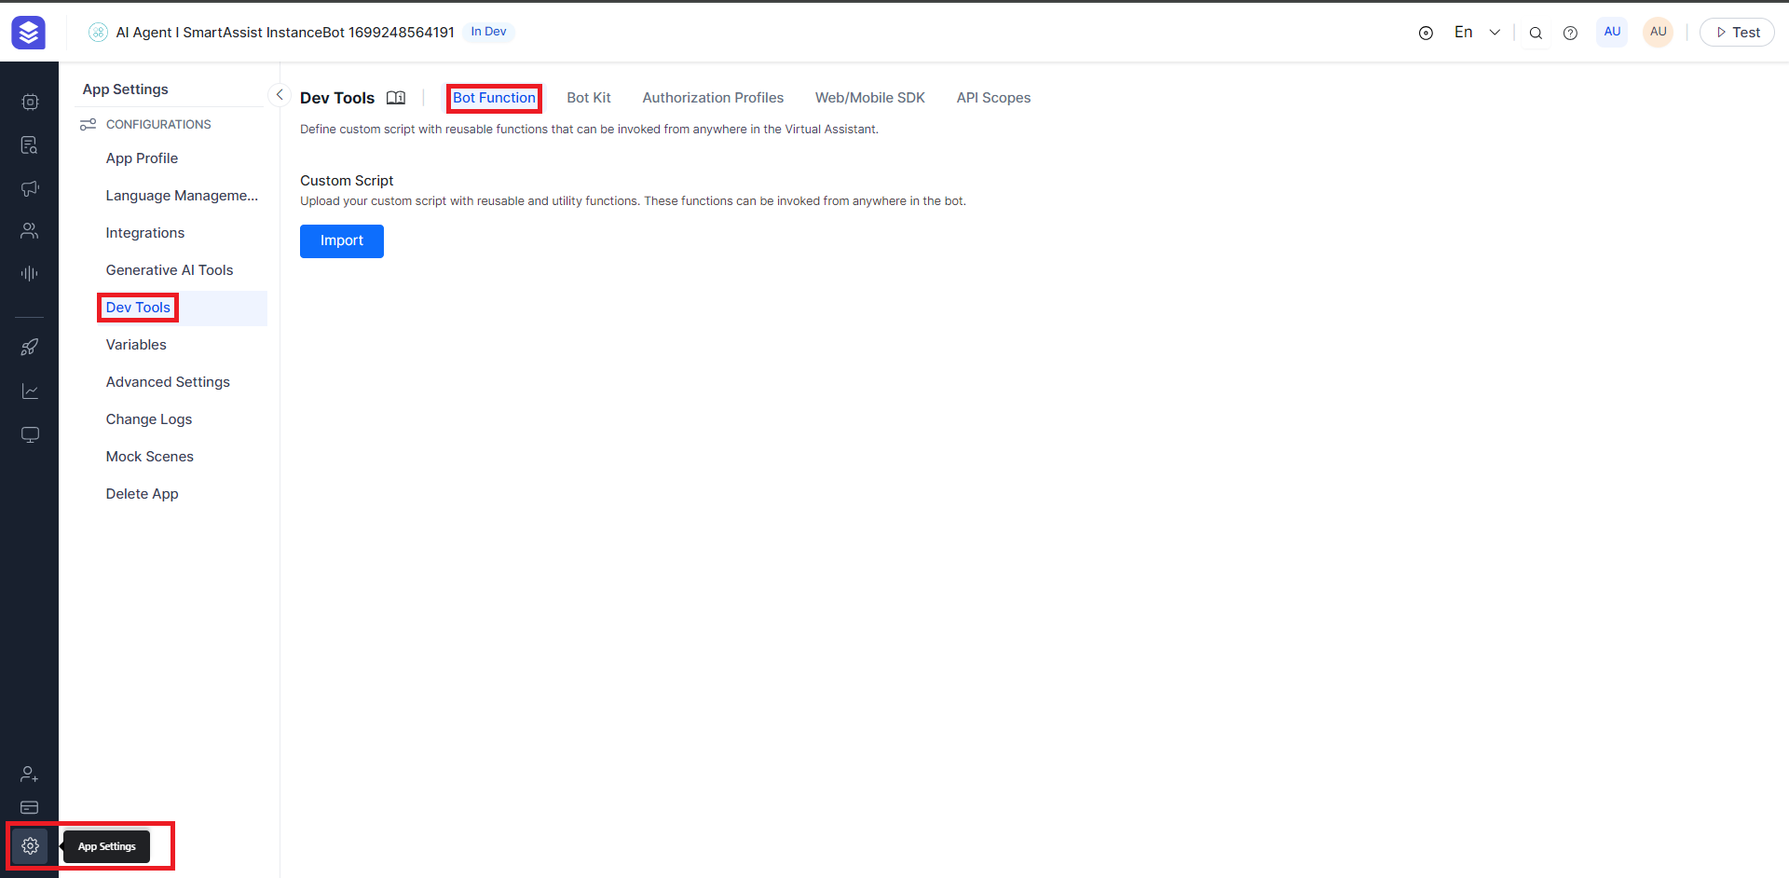
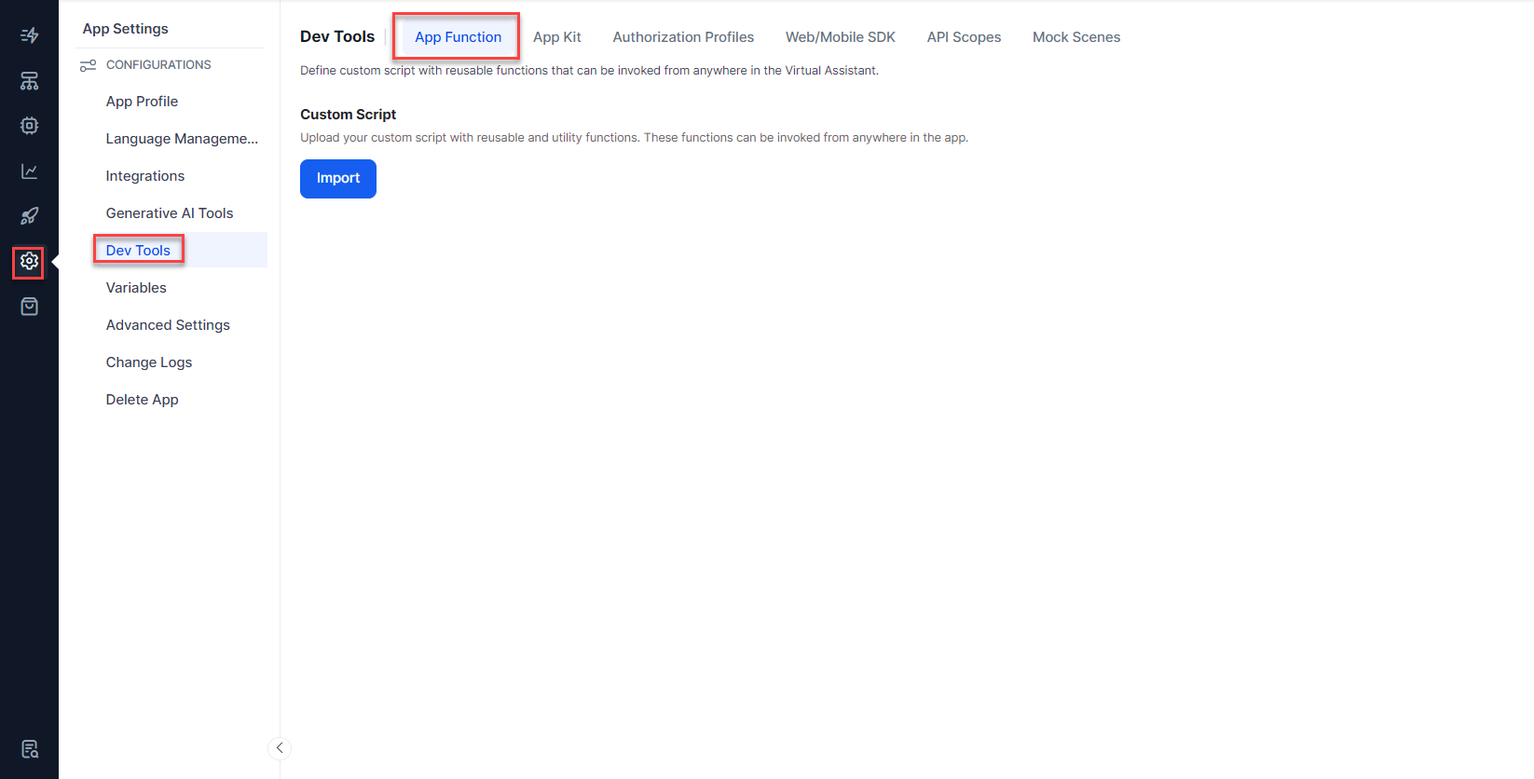
small changes in various pages

Changed region(s): [[0.0, 0.0, 1.0, 1.0]]

diff --git a/docs/xo/app-settings/variables/using-bot-variables.md b/docs/xo/app-settings/variables/using-bot-variables.md
@@ -1,17 +1,17 @@
-# Using Bot Variables
+# Using Variables
 
-**Bot variables** help you capture values that are commonly used by different tasks, nodes, and other bot elements. You can configure a bot variable as a key-value pair once in the bot settings and substitute key with value at runtime during the conversation flow. By capturing frequently used values in a single place, bot variables provide the advantages of reusability and consistency. For example, let’s say you are testing a flight booking bot using a staging endpoint. If you configure the endpoint as a variable, it helps you to call the API from several places quickly. When you want to change the staging endpoint to production while publishing the bot, it is easy. Similarly, variables can be used to externalize content for messages and prompts from the dialog flow definition. Kore.ai platform allows bot developers to define two types of variables – Environment and Content.
+**Variables** help you capture values that are commonly used by different tasks, nodes, and other VA elements. You can configure a variable as a key-value pair once in the VA settings and substitute key with value at runtime during the conversation flow. By capturing frequently used values in a single place, variables provide the advantages of reusability and consistency. For example, let’s say you are testing a flight booking app using a staging endpoint. If you configure the endpoint as a variable, it helps you to call the API from several places quickly. When you want to change the staging endpoint to production while publishing the VA, it is easy. Similarly, variables can be used to externalize content for messages and prompts from the dialog flow definition. Kore.ai platform allows VA developers to define two types of variables – Environment and Content.
 
 
 ### Environment Variables
 
-Environment Variables are global, reusable components which can be used in multiple places to define the bot configuration. Every Environment Variable is a key-value pair. The Variable Keys can be used at various places in the bot configuration. The platform will resolve/replace the Variable Keys with Variables Values during the conversation. Some of the typical use cases where a developer can use environment variables are:
+Environment Variables are global, reusable components which can be used in multiple places to define the VA configuration. Every Environment Variable is a key-value pair. The Variable Keys can be used at various places in the VA configuration. The platform will resolve/replace the Variable Keys with Variables Values during the conversation. Some of the typical use cases where a developer can use environment variables are:
 
 
 
-* To manage the bot across environments having different endpoint URLs. The bot can be exported and imported based on the environment, and the infrastructure team will need to modify only the variable configuration file.
+* To manage the app across environments having different endpoint URLs. The app can be exported and imported based on the environment, and the infrastructure team will need to modify only the variable configuration file.
 * To manage **Conditions** in the **Dialog Node** Transitions. Only the left-hand side of the transition condition uses Environment Variables. The right-hand side of the transition conditions does not use Environment Variables
-* To define and manage the bot response that is repeated within the bot configuration as variables.
+* To define and manage theapp response that is repeated within the app configuration as variables.
 * Authorization Token
 * Channel-related tokens and URLs
 
@@ -60,7 +60,7 @@ The availability of the environment variables has been extended to the **Field K
 
 ### Content Variables
 
-Bot building essentially requires extensive content management efforts. When it comes to multi-language bots, it also involves tedious coordination efforts between the developers and globally-distributed content authors or copyright team. Content variables enable you to overcome that by abstracting bot flow development efforts from authoring or editing the content. Using Content Variables, programmers can avoid hard-coding the bot content, such as prompts, messages, or any data presented to the user, into bot components, and instead point to specific variables in centrally managed Content Variables files for each bot language. You can export the language-specific content variable files to content editors, without exposing any bot configurations. The writers can author the content in the exported file, which you can import back into the bot.
+Bot building essentially requires extensive content management efforts. When it comes to multi-language VAs, it also involves tedious coordination efforts between the developers and globally-distributed content authors or copyright team. Content variables enable you to overcome that by abstracting VA flow development efforts from authoring or editing the content. Using Content Variables, programmers can avoid hard-coding the VA content, such as prompts, messages, or any data presented to the user, into VA components, and instead point to specific variables in centrally managed Content Variables files for each app language. You can export the language-specific content variable files to content editors, without exposing any app configurations. The writers can author the content in the exported file, which you can import back into the app.
 
 
 ### Defining Bot Variables and Securing Them
@@ -91,7 +91,7 @@ The variable and its encrypted value appear in the list.
 
 ### Entering Language-Specific Values
 
-To add language-specific values for content variables, you first need to switch the bot language. You can switch the language by clicking the name of the currently-enabled language from the top-right corner of the bot’s page and then selecting another language as follows:
+To add language-specific values for content variables, you first need to switch the app language. You can switch the language by clicking the name of the currently-enabled language from the top-right corner of the app’s page and then selecting another language as follows:
 
 <img src="../images/env-and-content-variables-img7.png" alt="Select language" title="Select language" style="border: 1px solid gray;zoom:50%;"/>
  
@@ -101,9 +101,9 @@ After switching the language, go to **App Settings > Variables > Content Variabl
 
 ### Using Environment Variables
 
-You can invoke an environment variable in plain text mode (Standard editor) using the following syntax: `{{env.variableName}}` If you are using it in JavaScript mode, it is _env.variableName_ Here’s an example from a bot that uses two environment variables called _botType_ and _parameters_ to determine different bot environments such as development, testing, and production. The following script node in one of the bot’s tasks captures the _base URL_ of the bot, depending on the current bot environment.
+You can invoke an environment variable in plain text mode (Standard editor) using the following syntax: `{{env.variableName}}` If you are using it in JavaScript mode, it is _env.variableName_ Here’s an example from a app that uses two environment variables called _botType_ and _parameters_ to determine different app environments such as development, testing, and production. The following script node in one of the app’s tasks captures the _base URL_ of the app, depending on the current app environment.
 
-<img src="../images/env-and-content-variables-img8.png" alt="Script to capture Base URL of bot" title="Script to capture Base URL of bot" style="border: 1px solid gray;zoom:50%;"/>
+<img src="../images/env-and-content-variables-img8.png" alt="Script to capture Base URL of app" title="Script to capture Base URL of app" style="border: 1px solid gray;zoom:50%;"/>
 
 
 The URL in the following service node changes based on the captured URL
@@ -130,16 +130,16 @@ The new encrypted secure variable value is updated in the list as shown below:
 
 ### Using Content Variables
 
-You can invoke a content variable in plain text mode (Standard editor) using the following syntax. `{{content.variableName}}` If you are using it in JavaScript mode, it is _content.variableName_ Here’s an entity node of a multi-language flight booking bot that captures the source airport of the users. It uses a content variable instead of a hard-coded user prompt.
+You can invoke a content variable in plain text mode (Standard editor) using the following syntax. `{{content.variableName}}` If you are using it in JavaScript mode, it is _content.variableName_ Here’s an entity node of a multi-language flight booking app that captures the source airport of the users. It uses a content variable instead of a hard-coded user prompt.
 
 <img src="../images/env-and-content-variables-img13.png" alt="Entity node containing content variable" title="Entity node containing content variable" style="border: 1px solid gray;zoom:50%;"/>
 
-When the bot reaches this node as a part of the user interaction, the user prompt changes depending on the language of the interaction (provided you entered the respective variable values for all the enabled languages).
+When the app reaches this node as a part of the user interaction, the user prompt changes depending on the language of the interaction (provided you entered the respective variable values for all the enabled languages).
 
 
 ### Importing and Exporting
 
-You can import and export bot variables between bots.
+You can import and export variables between apps.
 
 1. On any of the Bot Variables page accessible from **App Settings > Variables > (Environment/Content) Variables**,
 2. Click the **ellipses next to Add Variables**
@@ -184,8 +184,8 @@ The **Bot Variable file** contains the following information, the same needs to 
 ```
 [
   {"key":"hosturl",
-   "value":"https://bots.kore.ai",
-   "hint":"This is the URL of environment which can be used across the endpoints configured in the bot",
+   "value":"https://platform.kore.ai",
+   "hint":"This is the URL of environment which can be used across the endpoints configured in the app",
    "audioTag":"",
    "variableType":"env",
    "scope":"prePopulated",

diff --git a/docs/xo/app-settings/dev-tools/reusing-bot-functions-custom-script-file.md b/docs/xo/app-settings/dev-tools/reusing-bot-functions-custom-script-file.md
@@ -1,6 +1,6 @@
-# Bot Functions
+# App Functions
 
-Bot Functions is a feature that uses a custom Script file that enables you to collate and manage reusable utility JavaScript functions that can be used by different tasks, nodes, and other elements. Once you upload a custom script file to the assistant, it reduces the redundant development efforts by making all the functions in the file accessible anywhere in the assistant.
+App Function is a feature that uses a custom Script file that enables you to collate and manage reusable utility JavaScript functions that can be used by different tasks, nodes, and other elements. Once you upload a custom script file to the assistant, it reduces the redundant development efforts by making all the functions in the file accessible anywhere in the assistant.
 
 
 # Using the Custom Script File
@@ -48,8 +48,8 @@ print(custTemplatel(info));|
 Follow these steps to upload the script file to the assistant:
 
 1. Select **App Settings** from the left menu.
-2. Select **Dev Tools** from the menu, and then the **Bot Functions** tab.  
-<img src="../images/bot-functions-img2.png" alt="Navigate to Bot Functions" title="Navigate to Bot Functions" style="border: 1px solid gray;zoom:50%;"/>
+2. Select **Dev Tools** from the menu, and then the **App Function** tab.  
+<img src="../images/bot-functions-img2.png" alt="Navigate to App Function" title="Navigate to App Function" style="border: 1px solid gray;zoom:50%;"/>
 
 3. Under **Custom Script**, click **Import**.
 4. On the _Import Custom Script_ dialog, click **Browse** and navigate to the script file in your local machine. Click **Import**. You can also drag and drop the script file from the folder on the local machine.
@@ -60,7 +60,7 @@ Follow these steps to upload the script file to the assistant:
 You can add or modify functions in the custom script file by downloading the file, making changes, and then importing it back to the assistant. Importing a new custom script file replaces the existing file, which cannot be retrieved later. Therefore, we recommend you exercise caution and keep a copy of the downloaded file for backup.
 
 1. Select **App Settings** from the left menu.
-2. Select **Dev Tools** from the menu, and then the **Bot Functions** tab.
+2. Select **Dev Tools** from the menu, and then the **App Function** tab.
 3. Under the **Custom Script**, click **Download** to save a copy of the file on your local computer.
 4. After you make changes to the file, click **Import New**.
 5. Click **Browse** to the location of the custom script file on your local computer and then click **Import**.

diff --git a/docs/xo/administration/analytics.md b/docs/xo/administration/analytics.md
@@ -56,7 +56,7 @@ By clicking on any entry you get to view further details pertaining as seen belo
 
 !!! Note
 
-        The Audit Report contains system and user events for several Kore.ai products. To drill down further than Event Categories, use the Search for Description field, which lets you add one more criterion to the filter. To get XO Platform data, search for "Bot Builder" exactly; the Search field is case-sensitive. For more complex filtering, we recommend exporting the report and using a spreadsheet editor.
+    The Audit Report contains system and user events for several Kore.ai products. To drill down further than Event Categories, use the Search for Description field, which lets you add one more criterion to the filter. To get XO Platform data, search for "Bot Builder" exactly; the Search field is case-sensitive. For more complex filtering, we recommend exporting the report and using a spreadsheet editor.
 
 ### Audit Report Details
 
@@ -439,7 +439,7 @@ The list of entries in an admin console table can be very large depending on the
 
 !!! Note
 
-        The number of search terms in a search query is unlimited, however, no more than the first 20 characters of each search term is used to return search results.
+    The number of search terms in a search query is unlimited, however, no more than the first 20 characters of each search term is used to return search results.
 
 To view all entries, clear the search field, and then press the **Enter** key.
 
@@ -489,9 +489,9 @@ Chat History provides visibility into the user information with the inclusion of
 
 !!! Note
 
-        The Trace ID is retained in the logs for 30 days. Once the Trace ID is expired, you see a tooltip message as 
+    The Trace ID is retained in the logs for 30 days. Once the Trace ID is expired, you see a tooltip message as 
         
-        ‘`Trace Id: Trace records for this message are not available`‘.
+    ‘`Trace Id: Trace records for this message are not available`‘.
 
 Click on any chat history to see these options. Following are the user information details provided:
 

diff --git a/docs/xo/administration/bot-management.md b/docs/xo/administration/bot-management.md
@@ -140,7 +140,7 @@ The list of entries in an admin console table can be very large depending on the
 
 !!! Note
 
-        The number of search terms in a search query is unlimited, however, no more than the first 20 characters of each search term is used to return search results.
+    The number of search terms in a search query is unlimited, however, no more than the first 20 characters of each search term is used to return search results.
 
 To view all entries, clear the search field, and then press the **Enter** key.
 
@@ -289,7 +289,7 @@ The list of entries in an admin console table can be very large depending on the
 
 !!! Note
 
-        The number of search terms in a search query is unlimited, however, no more than the first 20 characters of each search term is used to return search results.
+    The number of search terms in a search query is unlimited, however, no more than the first 20 characters of each search term is used to return search results.
 
 To view all entries, clear the search field, and then press the **Enter** key.
 
@@ -404,12 +404,12 @@ The following list describes the columns displayed for each Smart bot.
 This section describes the commands available on the **Action** bar.
 
 
-##### Using Sort By
+**Using Sort By**
 
 A company can have a large number of Smart bots to automate the numerous tasks. You can easily sort the bot list by **Bot Name**. By default, the Bots are sorted by the descending order of creation date. To sort the bots, in the **Sort by** drop-down list, select an option for **Bot Name** and the list is viewed in alphabetical order. To remove the sorting, in the **Sort by** drop-down list, select **None**.
 
 
-##### Using the Search Field
+**Using the Search Field**
 
 The list of entries in an admin console table can be very large depending on the size of your company, for example, a list of users or spaces. To find one or more specific users, groups, or spaces, in the **Search** field, enter at least three characters to begin find-as-you-type, or press return to start the search.
 

diff --git a/docs/xo/administration/user-management/role-management.md b/docs/xo/administration/user-management/role-management.md
@@ -359,7 +359,7 @@ Once created, you can assign roles to individual users or to user groups. You ca
 
 !!! Note
 
-        The default Master Admin role can be assigned to users (not groups) by the Primary Master Admin.
+    The default Master Admin role can be assigned to users (not groups) by the Primary Master Admin.
 
 
 ## Bot Roles
@@ -669,7 +669,7 @@ After creating a custom role, you can access more information about that role, c
 You can assign roles to individual users or to user groups. You can add and edit the roles from the Bot Admin Console. Also, you can assign a bot role to a user while sharing the bot with them from the Bots Platform.
 
 
-##### Assign Bot Role to a User from the Bots Admin Console
+**Assign Bot Role to a User from the Bots Admin Console**
 
 1. Open the Bots Admin Console.
 2. On the Admin menu, select **User Management > Users**.
@@ -681,7 +681,7 @@ You can assign roles to individual users or to user groups. You can add and edit
 <img src="../images/user-assignment.png" alt="Assign Bot Role to a User from the Bots Admin Console" title="Assign Bot Role to a User from the Bots Admin Console" style="border: 1px solid gray;zoom:50%;"/> 
 
 
-##### Assign Bot Role to a User Group
+**Assign Bot Role to a User Group**
 
 1. Open the Bots Admin Console.
 2. On the Admin menu, select **User Management > Role Management**.
@@ -693,7 +693,7 @@ You can assign roles to individual users or to user groups. You can add and edit
 <img src="../images/user-groups.png" alt="Assign Bot Role to a User Group" title="Assign Bot Role to a User Group" style="border: 1px solid gray;zoom:50%;"/> 
 
 
-##### Assign Bot Role from the Bot Builder
+**Assign Bot Role from the Bot Builder**
 
 1. On the Bot Builder top menu, select **Manage** tab
 2. From the left menu, select **Team**

diff --git a/docs/xo/administration/user-management/managing-your-users.md b/docs/xo/administration/user-management/managing-your-users.md
@@ -108,7 +108,7 @@ As an admin, you may need to end one or more user sessions. You can use the **Ki
 
 !!! warning
 
-        No confirmation message is displayed and the session is immediately and abruptly ended for the user.
+    No confirmation message is displayed and the session is immediately and abruptly ended for the user.
 
 
 <img src="../images/bac-users-sessions.png" alt="Sessions - User Activity" title="Sessions - User Activity" style="border: 1px solid gray;zoom:50%;"/>
@@ -141,7 +141,7 @@ The _password reset email_ sent message is displayed and an email is sent to the
 
 !!! tip
 
-        If SSO is enabled, Bots Admins can still log on to the Bots Admin Console directly using their password credentials and bypass SSO. For more information, see [Logging On Using Your Admin Password Instead of SSO](../../security-and-control/using-single-sign-on/#logging-on-using-your-admin-password-instead-of-sso){:target="_blank"}.
+    If SSO is enabled, Bots Admins can still log on to the Bots Admin Console directly using their password credentials and bypass SSO. For more information, see [Logging On Using Your Admin Password Instead of SSO](../../security-and-control/using-single-sign-on/#logging-on-using-your-admin-password-instead-of-sso){:target="_blank"}.
 
 
 #### Delete User
@@ -152,7 +152,7 @@ You can also **Delete User** from the Users page by using the **delete icon** on
 
 !!! Note
 
-        You cannot delete the Users if they are owners of the virtual assistant. You need to change the respective bot ownership to someone else in order to delete the user.
+    You cannot delete the Users if they are owners of the virtual assistant. You need to change the respective bot ownership to someone else in order to delete the user.
 
 
 ## User Settings

diff --git a/docs/xo/administration/dashboard-bac.md b/docs/xo/administration/dashboard-bac.md
@@ -2,7 +2,7 @@
 
 !!! Note
 
-        This page refers to the Dashboard page of the Admin Console, for information on the Analytics Dashboard of the XO Platform refer here.
+    This page refers to the Dashboard page of the Admin Console, for information on the Analytics Dashboard of the XO Platform refer here.
 
 Upon accessing the [Admin Console](../adminconsole){:target="_blank"}, you will be directed to its Dashboard page.
 
@@ -61,7 +61,7 @@ Post ver7.1 release of the XO Platform, you can filter the dashboard using meta 
 
 !!! Note
 
-        This option is available only when one assistant is selected. Tag selection will be reset if you change the selection.
+    This option is available only when one assistant is selected. Tag selection will be reset if you change the selection.
 
 The following table provides the widget-wise applicability of meta tags on the dashboard.
 

diff --git a/docs/xo/administration/enrollment/synchronizing-users-from-active-directory.md b/docs/xo/administration/enrollment/synchronizing-users-from-active-directory.md
@@ -15,7 +15,7 @@ If a Kore.ai user leaves your company and is deactivated in Active Directory, Ko
 
 !!! Note
 
-        Post v8.1, the support for Kore.ai Directory Agent for AD Sync has been discontinued. You can use the Cloud Connector option discussed in detail in this document or use the public APIs for synchronizing your users, [click here for details](../../../apis/api-list/#admin-apis){:target="_blank"}.
+    Post v8.1, the support for Kore.ai Directory Agent for AD Sync has been discontinued. You can use the Cloud Connector option discussed in detail in this document or use the public APIs for synchronizing your users, [click here for details](../../../apis/api-list/#admin-apis){:target="_blank"}.
 
 
 **Prerequisites**

diff --git a/docs/xo/app-settings/app-profile.md b/docs/xo/app-settings/app-profile.md
@@ -2,9 +2,9 @@
 
 To modify the general settings of a app:
 
-1. Open the app. Click the **launcher** on top of the screen and then click on **Settings**.
-2. Click **App Profile**.  
-<img src="../images/app-prof-img1-build-configurations-general-settings.gif" alt="General Settings" title="General Settings" style="border: 1px solid gray;zoom:50%;"/>
+1. Open the app.
+2.  Navigate to **App Settings > App Profile**.  
+<img src="../images/app-prof-img1-build-configurations-general-settings.png" alt="General Settings" title="General Settings" style="border: 1px solid gray;zoom:50%;"/>
 
 ## General VA Settings
 

diff --git a/docs/xo/administration/user-management/managing-your-groups.md b/docs/xo/administration/user-management/managing-your-groups.md
@@ -60,7 +60,7 @@ The list of entries in an admin console table can be very large depending on the
 
 !!! Note
 
-        The number of search terms in a search query is unlimited, however, no more than the first 20 characters of each search term is used to return search results.
+    The number of search terms in a search query is unlimited, however, no more than the first 20 characters of each search term is used to return search results.
 
 To view all entries, clear the search field, and then press the **Enter** key.
 

diff --git a/docs/xo/administration/adminconsole.md b/docs/xo/administration/adminconsole.md
@@ -98,4 +98,4 @@ To assign a role to a user follow these steps:
 
 !!! Note
 
-        _The role of Bot Owner is assigned at the time of Bot creation and can be changed either from the Bots Management module or from the XO Platform by the Bot Owner not from Role Management._
+    _The role of Bot Owner is assigned at the time of Bot creation and can be changed either from the Bots Management module or from the XO Platform by the Bot Owner not from Role Management._

diff --git a/docs/xo/app-settings/dev-tools/bot-authorization/bot-authentication.md b/docs/xo/app-settings/dev-tools/bot-authorization/bot-authentication.md
@@ -1,4 +1,4 @@
-# Bot Authorization Overview
+# VA Authorization Overview
 
 Kore.ai XO Platform’s Enterprise Integration Framework provides support for multiple authentication models that can be configured at a task level for each assistant, to use both authenticated and unauthenticated tasks in the same configuration.
 
